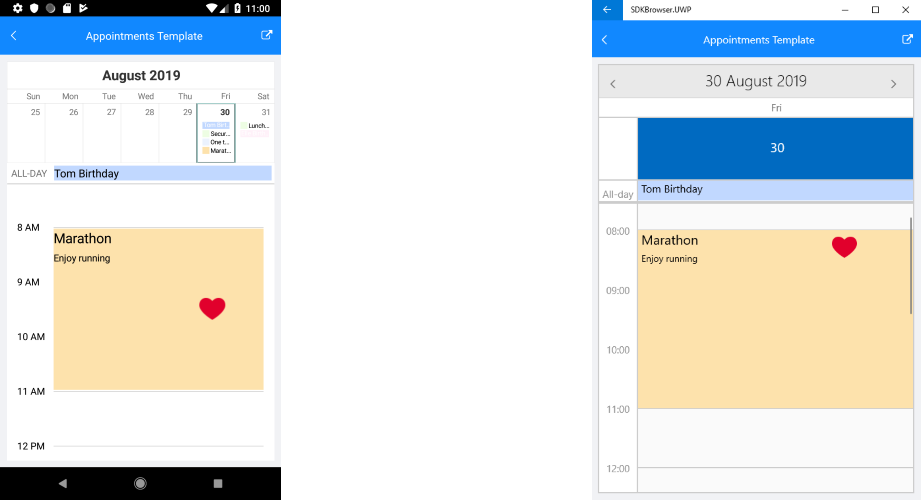
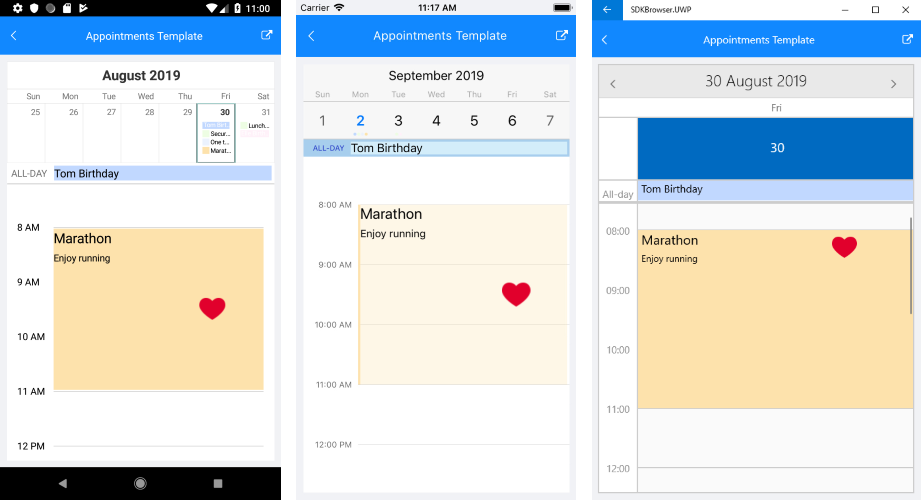
added images to appointment template example, changed listview gridlayout image

diff --git a/controls/calendar/calendar-appointments.md b/controls/calendar/calendar-appointments.md
@@ -36,6 +36,10 @@ With R3 2019 Release of Telerik UI for Xamarin RadCalendar control provides the 
 
 * **AppointmentContentTemplate** (*DataTemplate*): Defies the DataTemplate of the Appointment based on the data object.
 
+#### Appointment Template in DayView and MultiDayView
+
+![Appointment Template Overview](images/appointment-template-overview.png)
+
 ### AppointmentContentTemplate Example
 
 The following example shows how to set AppointmentContentTemplate in DayView Mode using DataTemplateSelector.
